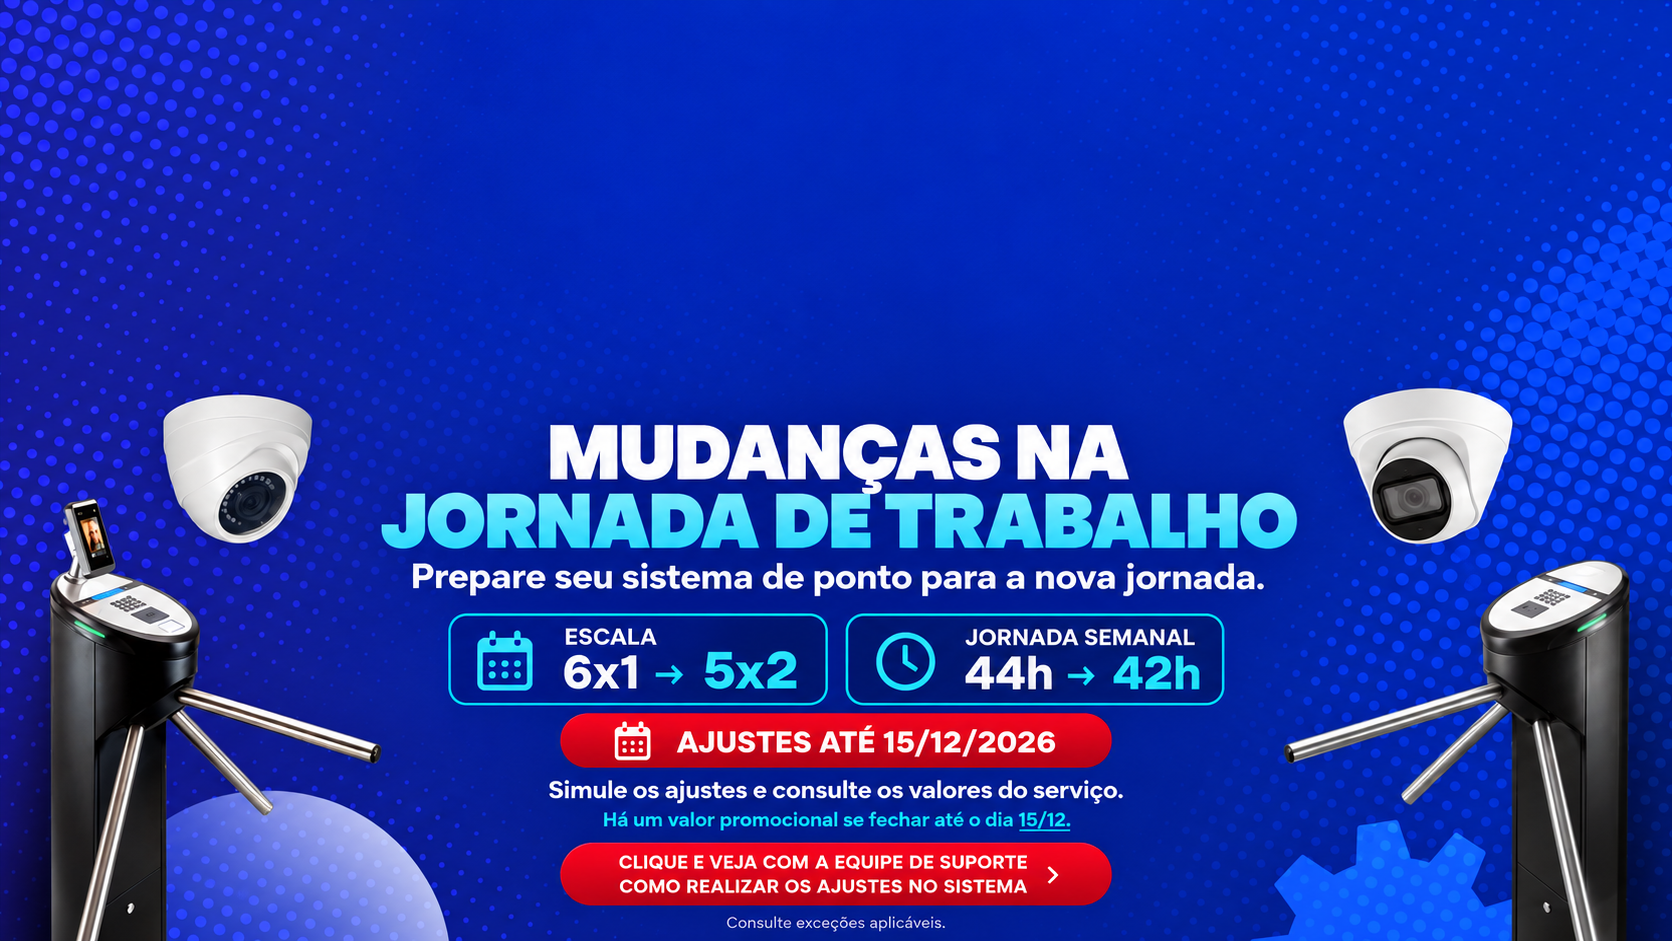
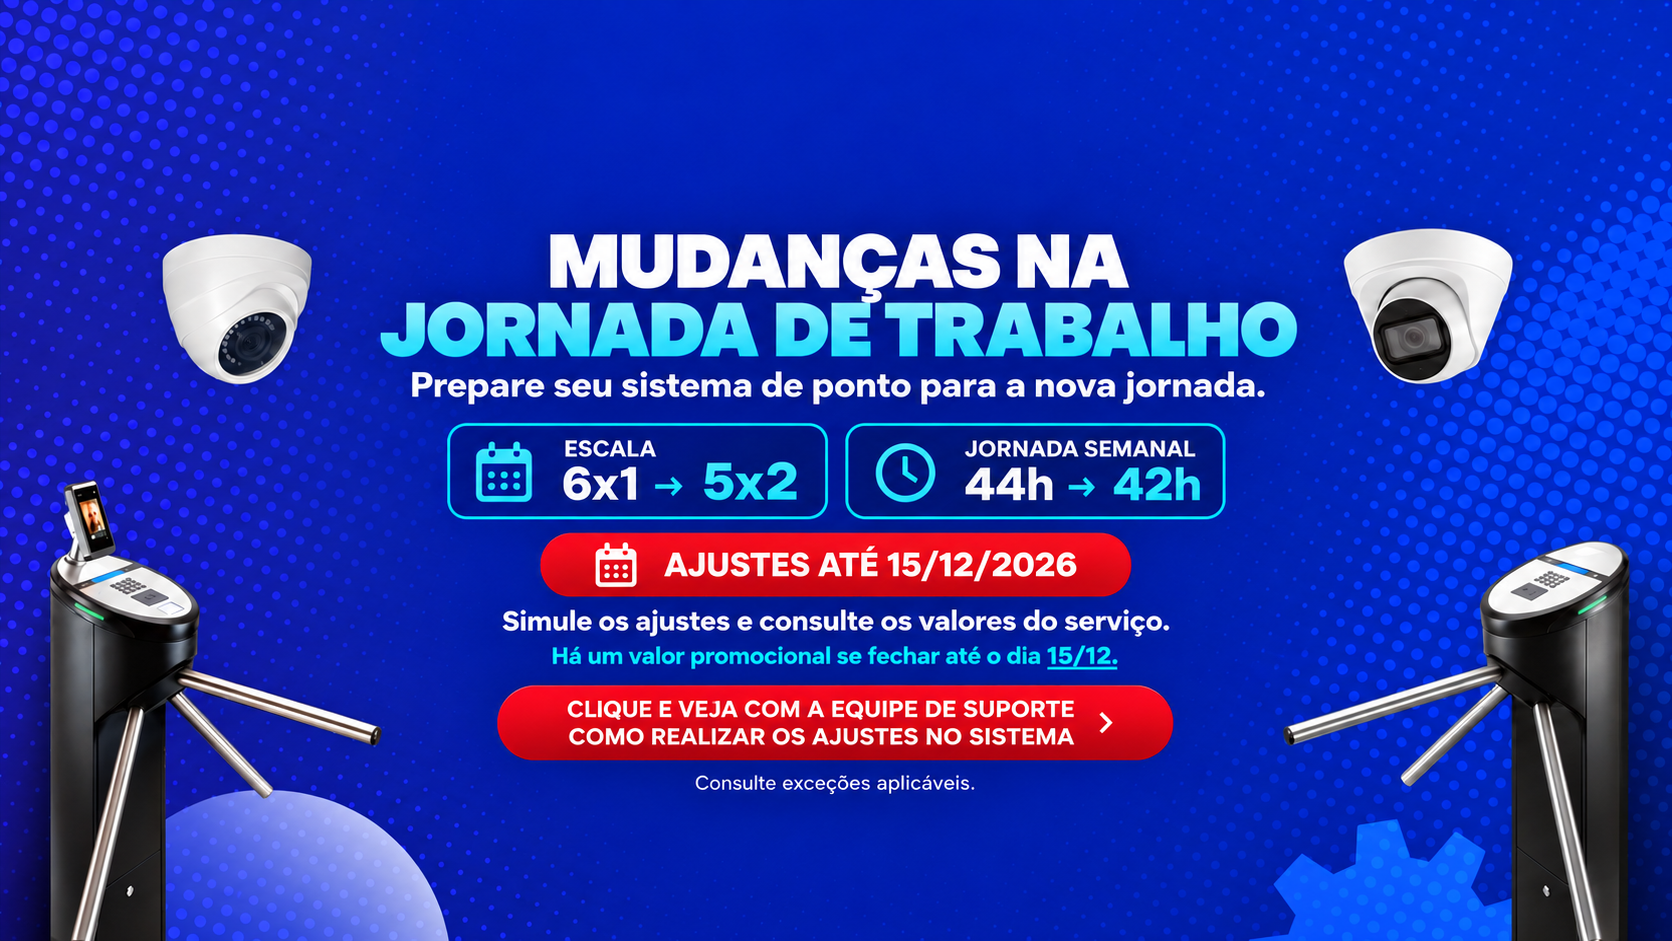
UpdateBanner-RPower-0411

diff --git a/css/splash.css b/css/splash.css
@@ -1,0 +1,175 @@
+/* RealPonto | Splash da campanha Jornada 2026
+ * CSS independente: altera somente elementos rp-splash.
+ * Para desativar a campanha, altere enabled em js/splash.js.
+ */
+.rp-splash-overlay[hidden] { display: none !important; }
+.rp-splash-overlay {
+  position: fixed;
+  inset: 0;
+  z-index: 2147483000;
+  box-sizing: border-box;
+  display: flex;
+  justify-content: center;
+  align-items: center;
+  padding: max(12px, env(safe-area-inset-top)) 16px max(12px, env(safe-area-inset-bottom));
+  overflow-x: hidden;
+  overflow-y: auto;
+  overscroll-behavior: contain;
+  background: rgba(5, 9, 25, .83);
+  -webkit-backdrop-filter: blur(6px);
+  backdrop-filter: blur(6px);
+  opacity: 0;
+  transition: opacity 260ms ease;
+}
+.rp-splash-overlay.rp-splash-open { opacity: 1; }
+.rp-splash-overlay *,
+.rp-splash-overlay *::before,
+.rp-splash-overlay *::after { box-sizing: border-box; }
+.rp-splash-dialog {
+  position: relative;
+  display: flex;
+  flex-direction: column;
+  flex: 0 1 1060px;
+  width: 100%;
+  max-width: 1060px;
+  max-height: calc(100dvh - 24px);
+  margin: auto;
+  overflow: auto;
+  border: 1px solid rgba(255,255,255,.24);
+  border-radius: 18px;
+  background: #101b39;
+  color: #fff;
+  box-shadow: 0 30px 100px rgba(0,0,0,.5);
+  transform: translateY(18px) scale(.97);
+  transition: transform 300ms cubic-bezier(.2,.8,.2,1);
+}
+.rp-splash-overlay.rp-splash-open .rp-splash-dialog {
+  transform: translateY(0) scale(1);
+}
+.rp-splash-close {
+  position: absolute;
+  z-index: 2;
+  right: 10px;
+  top: 10px;
+  display: grid;
+  place-items: center;
+  width: 44px;
+  height: 44px;
+  padding: 0;
+  border: 1px solid rgba(255,255,255,.48);
+  border-radius: 50%;
+  background: rgba(4, 11, 34, .87);
+  color: #fff;
+  font: 500 28px/1 Arial,sans-serif;
+  cursor: pointer;
+  box-shadow: 0 3px 18px rgba(0,0,0,.3);
+}
+.rp-splash-close:hover { background: #d81028; }
+.rp-splash-banner {
+  display: flex;
+  justify-content: center;
+  align-items: center;
+  width: 100%;
+  padding: 0;
+  margin: 0;
+  background: #061b91;
+  text-decoration: none;
+  overflow: hidden;
+}
+.rp-splash-banner img {
+  display: block;
+  width: 100%;
+  height: auto;
+  max-height: min(69dvh, 720px);
+  object-fit: contain;
+  object-position: center;
+}
+.rp-splash-mobile-text { display: none; }
+.rp-splash-footer {
+  display: flex;
+  justify-content: space-between;
+  align-items: center;
+  gap: 16px;
+  padding: 12px 18px;
+  background: #10182f;
+}
+.rp-splash-footer p {
+  margin: 0;
+  color: #d3dffa;
+  font: 500 13px/1.4 Arial,sans-serif;
+}
+.rp-splash-action {
+  display: inline-flex;
+  justify-content: center;
+  align-items: center;
+  min-height: 44px;
+  padding: 10px 18px;
+  border-radius: 100px;
+  background: #ed1429;
+  color: #fff !important;
+  text-decoration: none !important;
+  text-align: center;
+  font: 700 14px/1.25 Arial,sans-serif;
+  white-space: nowrap;
+  transition: background 160ms ease;
+}
+.rp-splash-action:hover { background: #c90620; }
+.rp-splash-overlay :is(a,button):focus-visible {
+  outline: 3px solid #55ddff;
+  outline-offset: 3px;
+}
+.rp-splash-visually-hidden {
+  position: absolute !important;
+  width: 1px !important;
+  height: 1px !important;
+  padding: 0 !important;
+  overflow: hidden !important;
+  clip: rect(0,0,0,0) !important;
+  white-space: nowrap !important;
+  border: 0 !important;
+}
+@media (max-width: 640px) {
+  .rp-splash-overlay {
+    padding: max(10px, env(safe-area-inset-top)) 10px max(10px, env(safe-area-inset-bottom));
+  }
+  .rp-splash-dialog {
+    max-width: 460px;
+    border-radius: 15px;
+  }
+  .rp-splash-banner img {
+    max-height: 43dvh;
+  }
+  .rp-splash-close { right: 7px; top: 7px; }
+  .rp-splash-mobile-text {
+    display: block;
+    padding: 14px 15px 8px;
+    background: #10182f;
+    color: #fff;
+  }
+  .rp-splash-mobile-text strong {
+    display: block;
+    margin: 0 0 4px;
+    font: 750 18px/1.25 Arial,sans-serif;
+  }
+  .rp-splash-mobile-text p {
+    margin: 0;
+    color: #d8e4ff;
+    font: 400 14px/1.48 Arial,sans-serif;
+  }
+  .rp-splash-footer {
+    flex-direction: column;
+    align-items: stretch;
+    gap: 8px;
+    padding: 8px 15px 15px;
+  }
+  .rp-splash-footer p { display: none; }
+  .rp-splash-action { width: 100%; white-space: normal; }
+}
+@media (max-width: 360px) {
+  .rp-splash-mobile-text { padding-top: 10px; }
+  .rp-splash-mobile-text strong { font-size: 16px; }
+  .rp-splash-mobile-text p { font-size: 13px; }
+}
+@media (prefers-reduced-motion: reduce) {
+  .rp-splash-overlay, .rp-splash-dialog, .rp-splash-action { transition: none !important; }
+}

diff --git a/js/splash.js b/js/splash.js
@@ -1,0 +1,106 @@
+/* RealPonto — Splash Jornada 2026 | exclusivo da página inicial */
+(() => {
+  'use strict';
+  // CONTROLE: enabled=false desliga a campanha sem remover arquivos.
+  const config = {
+    enabled: true,
+    delayMs: 500,
+    showEveryHours: 0,
+    expiresAt: '2026-12-16T00:00:00-03:00',
+    campaignId: 'jornada-2026-v1',
+    image: 'img/splash/jornada-2026.jpg',
+    destination: 'https://jornada.realponto.com.br/'
+  };
+
+  function init() {
+    if (!config.enabled || Date.now() >= Date.parse(config.expiresAt)) return;
+
+    const storageKey = 'rp-splash:last-shown:' + config.campaignId;
+    const repeatMs = config.showEveryHours * 60 * 60 * 1000;
+    try {
+      const lastShown = Number(window.localStorage.getItem(storageKey));
+      if (lastShown > 0 && Date.now() - lastShown < repeatMs) return;
+    } catch (_) { /* Navegação privada/armazenamento bloqueado: ainda permite fechar. */ }
+
+    const overlay = document.createElement('div');
+    overlay.className = 'rp-splash-overlay';
+    overlay.hidden = true;
+    overlay.innerHTML = `
+      <section class="rp-splash-dialog" role="dialog" aria-modal="true" aria-labelledby="rp-splash-title" aria-describedby="rp-splash-description">
+        <h2 class="rp-splash-visually-hidden" id="rp-splash-title">Campanha RealPonto: mudanças na jornada de trabalho</h2>
+        <button class="rp-splash-close" type="button" aria-label="Fechar anúncio">&times;</button>
+        <a class="rp-splash-banner" href="${config.destination}" aria-label="Conhecer a simulação da nova jornada na RealPonto">
+          <img src="${config.image}" alt="Banner RealPonto: mudanças na jornada de trabalho, escala 6x1 para 5x2, jornada de 44 para 42 horas, ajustes até 15 de dezembro de 2026." width="1672" height="941" loading="eager" decoding="async">
+        </a>
+        <div class="rp-splash-mobile-text" id="rp-splash-description">
+          <strong>Mudanças na jornada de trabalho</strong>
+          <p>Conheça as opções de ajuste e consulte os valores do serviço. Condições e exceções aplicáveis devem ser verificadas.</p>
+        </div>
+        <div class="rp-splash-footer">
+          <p></p>
+          <a class="rp-splash-action" href="${config.destination}">Simular ajustes e consultar valores</a>
+        </div>
+      </section>`;
+    document.body.appendChild(overlay);
+
+    const closeButton = overlay.querySelector('.rp-splash-close');
+    const focusables = Array.from(overlay.querySelectorAll('button, a[href]'));
+    let previousFocus = null;
+    let previousOverflow = '';
+    let opened = false;
+
+    function onKeydown(event) {
+      if (!opened) return;
+      if (event.key === 'Escape') {
+        event.preventDefault();
+        close();
+      } else if (event.key === 'Tab' && focusables.length > 0) {
+        const first = focusables[0];
+        const last = focusables[focusables.length - 1];
+        if (event.shiftKey && document.activeElement === first) {
+          event.preventDefault(); last.focus();
+        } else if (!event.shiftKey && document.activeElement === last) {
+          event.preventDefault(); first.focus();
+        }
+      }
+    }
+
+    function close() {
+      if (!opened) return;
+      opened = false;
+      document.removeEventListener('keydown', onKeydown);
+      overlay.classList.remove('rp-splash-open');
+      overlay.hidden = true;
+      document.body.style.overflow = previousOverflow;
+      if (previousFocus && typeof previousFocus.focus === 'function') {
+        previousFocus.focus({preventScroll: true});
+      }
+      overlay.remove();
+    }
+
+    closeButton.addEventListener('click', close);
+    overlay.addEventListener('click', (event) => {
+      if (event.target === overlay) close();
+    });
+
+    window.setTimeout(() => {
+      if (!document.body.contains(overlay)) return;
+      previousFocus = document.activeElement;
+      previousOverflow = document.body.style.overflow;
+      document.body.style.overflow = 'hidden';
+      overlay.hidden = false;
+      opened = true;
+      document.addEventListener('keydown', onKeydown);
+      window.requestAnimationFrame(() => overlay.classList.add('rp-splash-open'));
+      closeButton.focus({preventScroll: true});
+      try { window.localStorage.setItem(storageKey, String(Date.now())); }
+      catch (_) { /* O visitante pode bloquear armazenamento. */ }
+    }, config.delayMs);
+  }
+
+  if (document.readyState === 'loading') {
+    document.addEventListener('DOMContentLoaded', init, {once: true});
+  } else {
+    init();
+  }
+})();

diff --git a/real-power.html b/real-power.html
@@ -139,6 +139,29 @@
 
 <link href="css/visual-original.css?v=9" rel="stylesheet"/>
 <link href="css/responsivo-real-power-assistencia.css?v=20261103-mobile1" rel="stylesheet"/>
+
+<!-- AJUSTE EXCLUSIVO REAL POWER - ESPACAMENTO ENTRE SECOES -->
+<style>
+/* Aproxima o conteúdo do produto da apresentação */
+body.real-power-page .real-power-hero {
+    padding-bottom: 20px;
+}
+
+body.real-power-page .real-power-overview {
+    padding-top: 0;
+}
+
+/* Ajuste específico para celulares */
+@media (max-width: 720px) {
+    body.real-power-page .real-power-hero {
+        padding-bottom: 24px;
+    }
+
+    body.real-power-page .real-power-overview {
+        padding-top: 14px;
+    }
+}
+</style>
 </head>
 <body class="relogio-page real-power-page" id="topo">
 

diff --git a/index.html b/index.html
@@ -66,6 +66,8 @@
 <link href="https://cdnjs.cloudflare.com/ajax/libs/font-awesome/6.5.2/css/all.min.css" rel="stylesheet"/>
 <link href="css/visual-original.css?v=9" rel="stylesheet"/>
 <link href="css/banners-responsivos.css?v=9" rel="stylesheet"/>
+<!-- SPLASH BANNER - JORNADA 2026 -->
+<link href="css/splash.css?v=20261104" rel="stylesheet"/>
 </head>
 <body data-rp-responsive-banners="v2" class="home-page" id="topo">
 <div class="topbar">
@@ -467,5 +469,7 @@
 <script defer="" src="js/script.js"></script>
 <script defer src="js/visual-original.js?v=9"></script>
 <script defer src="js/banners-responsivos.js?v=9"></script>
+<!-- SPLASH BANNER - JORNADA 2026 -->
+<script defer src="js/splash.js?v=20261104"></script>
 </body>
 </html>
